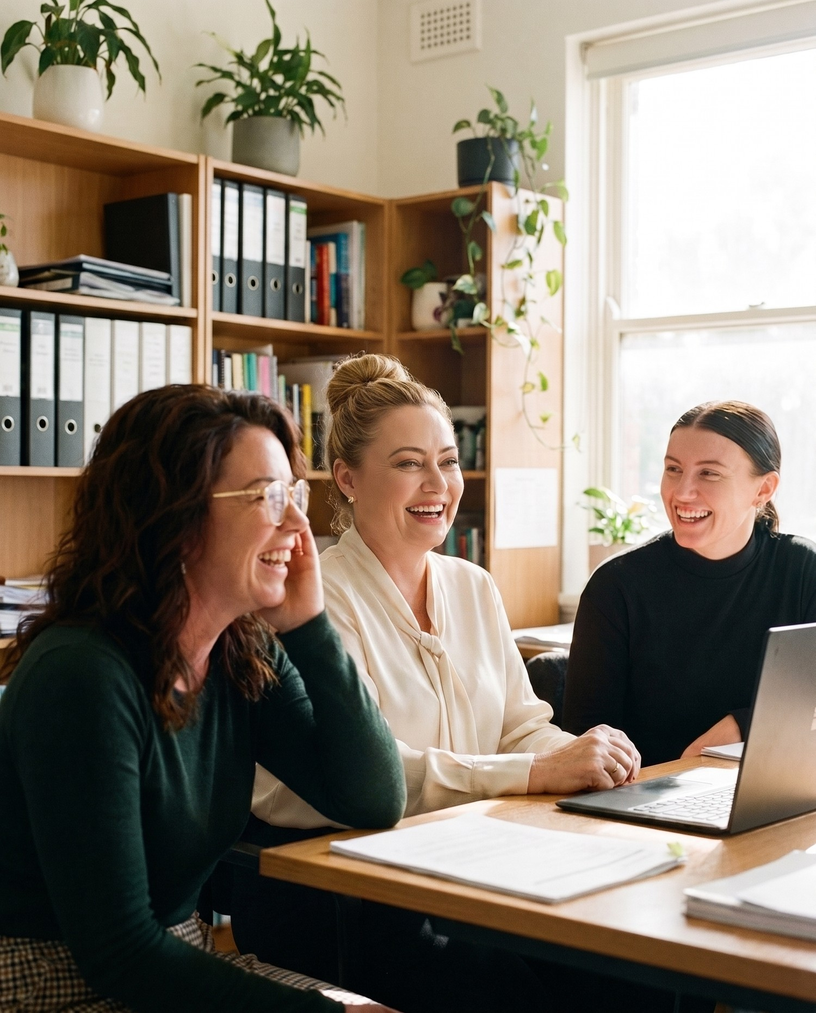
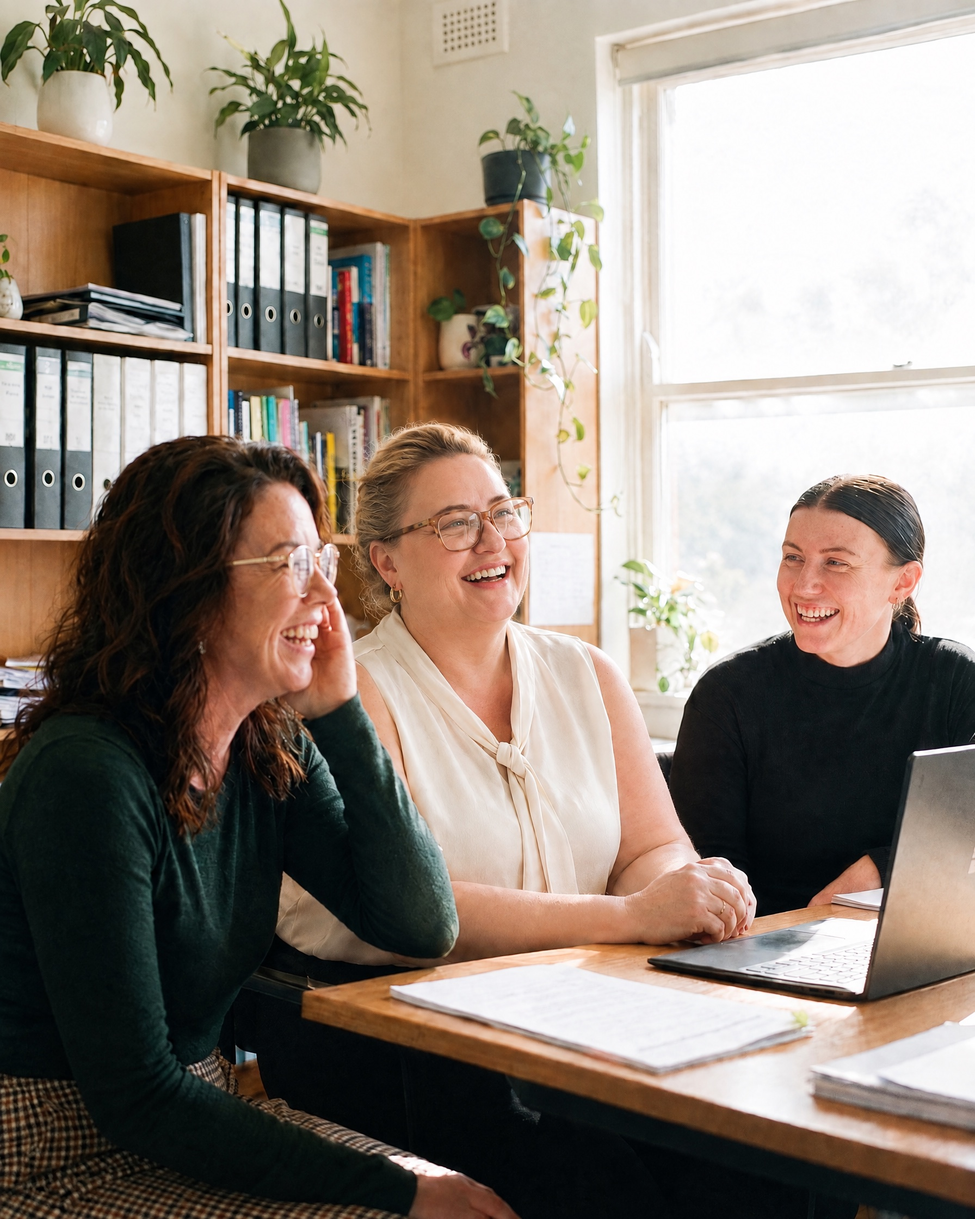
Vic is Vic in the team photo, and the coordination card shows coordination
The team photo's centre figure was a slim thirty-something without glasses.
She is now built from the real call frame: glasses, hair up, her build, kept
flattering because she hates looking old. The two care managers are untouched.

The "Finding your way through the NDIS" card read as a couple doing their tax.
It now shows a participant at his own kitchen table with his plan under his
hand, leading the conversation with his coordinator. Both sources carry a
version query so cached copies of the old files are not shown.

diff --git a/site/index.html b/site/index.html
@@ -488,7 +488,7 @@ section{position:relative}
   </article>
 
   <article class="panel rv">
-    <div class="pic"><img src="img/p-coord.jpg" alt="A support coordinator and a participant working through plan paperwork at a kitchen table."></div>
+    <div class="pic"><img src="img/p-coord.jpg?v=2" alt="A participant at his own kitchen table with his NDIS plan open in front of him, talking it through with his support coordinator."></div>
     <div class="txt">
       <span class="num">04</span>
       <h3>Finding your way through the NDIS</h3>
@@ -591,7 +591,7 @@ section{position:relative}
 </div></div>
 
 <section class="who rv" id="who">
-  <div class="pic"><img src="img/team-photo.jpg" alt="Victoria with her two care managers, laughing together at a table in the Harmony Care office."></div>
+  <div class="pic"><img src="img/team-photo.jpg?v=2" alt="Victoria with her two care managers, laughing together at a table in the Harmony Care office."></div>
   <div class="txt">
     <span class="lbl">Who we are</span>
     <h2>Small, and staying that way</h2>
